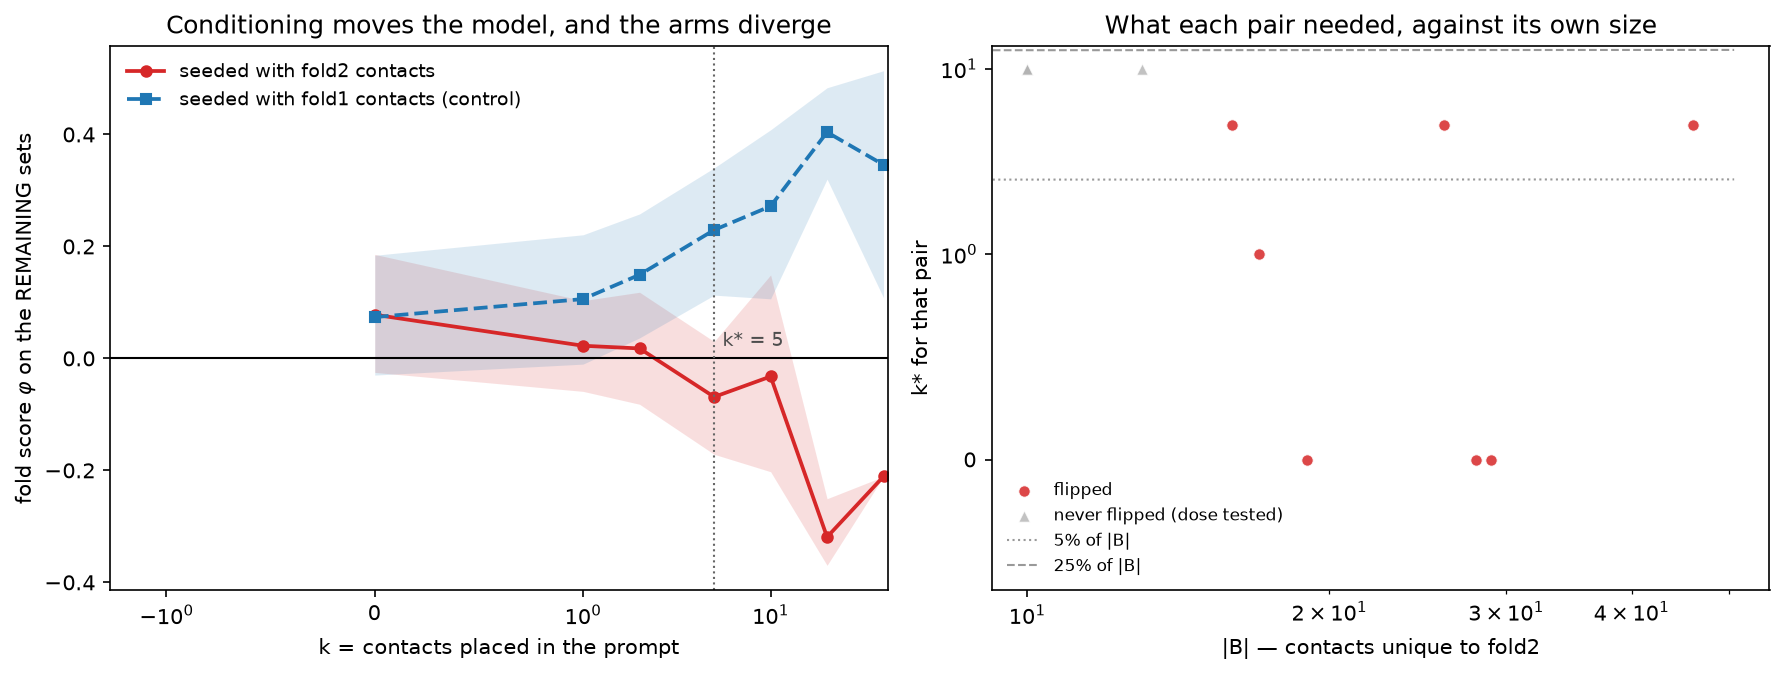
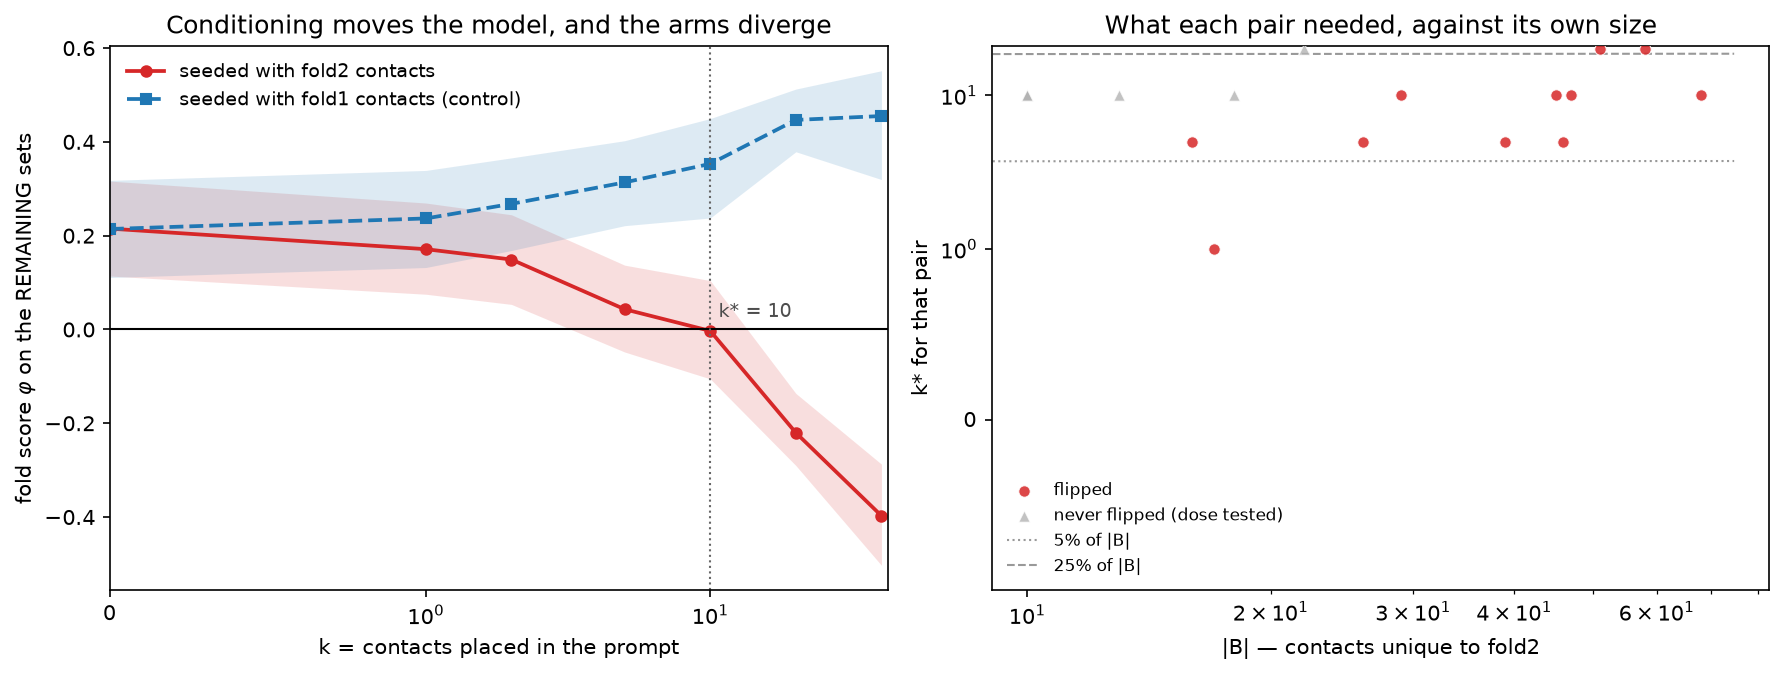
exp301: summary narrative + plot caption sidecars
11 narrative slides tracking the experiment, and plot.py now goes
through build_summary.save_plot_with_meta so each plot slide prints its
caption and how to regenerate it instead of "metadata missing".

Captions are one line each on purpose: #224 found that a caption past
two lines silently overlaps the plot. Rendered and checked at page
level before committing.

summary.pdf itself is gitignored -- it is a build artifact of the
narrative plus the committed PNGs.

diff --git a/experiments/exp301_evals_fold_switching_proteins/plot.py b/experiments/exp301_evals_fold_switching_proteins/plot.py
@@ -19,6 +19,8 @@ import pandas as pd
 matplotlib.use("Agg")
 import matplotlib.pyplot as plt  # noqa: E402
 
+from build_summary import save_plot_with_meta  # noqa: E402
+
 HERE = Path(__file__).resolve().parent
 DATA = HERE / "data"
 PLOTS = HERE / "plots"
@@ -30,11 +32,33 @@ LABEL_COLOR = {"fold1": FOLD1, "fold2": FOLD2, "neither": NEUTRAL,
                "ambiguous": "#bcbd22", "none": "#cccccc"}
 
 
+#: One-line caption per figure, carried into plots/summary.pdf by
+#: build_summary.py's sidecar convention so a slide says what it shows.
+#: Kept to a single line each — #224's summary.pdf overlaps the plot when a
+#: caption runs past two.
+CAPTIONS = {
+    "fold_preference.png":
+        "Per-pair fold score and per-fold R-precision: MarinFold prefers Fold1 in 52/68 pairs.",
+    "bimodality.png":
+        "Per-rollout phi spread against a binomial null: the ensemble is one mode, not two.",
+    "calibration.png":
+        "The gate: this worker against exp277's published per-protein R-precision on eval-val.",
+    "memorization.png":
+        "Model preference against the fold its own training document encoded, and against exposure.",
+    "nll_vs_phi.png":
+        "Teacher-forced likelihood against sampled preference: the two readouts agree per protein.",
+    "conditioning.png":
+        "Dose-response of prompting with fold2 contacts, against the symmetric fold1 control.",
+}
+
+
 def _finish(fig, name: str) -> None:
     PLOTS.mkdir(exist_ok=True)
     fig.tight_layout()
-    out = PLOTS / name
-    fig.savefig(out, dpi=150, bbox_inches="tight")
+    out = save_plot_with_meta(
+        fig, PLOTS / name,
+        caption=CAPTIONS.get(name, name),
+        script="plot.py", args=[], dpi=150)
     plt.close(fig)
     print(f"wrote {out.relative_to(HERE)}")
 

diff --git a/experiments/exp301_evals_fold_switching_proteins/summary_narrative.md b/experiments/exp301_evals_fold_switching_proteins/summary_narrative.md
@@ -10,10 +10,101 @@ Does MarinFold's distribution contain **both** conformations of fold-switching
 proteins — and if it does not sample them spontaneously, how much explicit
 contact evidence does it take to force the alternative fold?
 
-## Why
+## Why fold switchers, and why MarinFold
 
-_(Copy from the issue.)_
+Fold switchers adopt two stable folds from one sequence, which makes them the
+field's sharpest generalisation probe. AlphaFold2 predicts only one conformation
+for 94% of them, and its successes are driven by training-set memorization.
 
-## Results so far
+MarinFold is a different instrument in three ways that matter. `contacts-v1` is
+generative over contact sets, so "is the other fold in the distribution?" is
+answered by sampling rather than by MSA tricks. It is promptable, so "how much
+evidence moves the model" is a number. And we can read our own training data, so
+the memorization test Porter's group had to infer can be run directly.
 
-_(Fill in as results come in.)_
+## The eval set, and its premise
+
+93 fold-switching pairs from `ncbi/AF2_benchmark` TableS1; 68 pass a three-part
+gate (≥10 contacts unique to each fold, ≥50% chain overlap, switching region
+located). 177 of 178 PDB entries were already in the local mirror.
+
+The two folds share a median Jaccard of 0.515. The floor — two chains of the same
+sequence in the same fold inside one crystal — is 0.873. All 68 sit below the
+replicate median. That floor independently reproduces #224's DsbA figure of
+0.85–0.88 on different proteins.
+
+## Result 1 — the model reaches one fold, and it is Fold1
+
+52 of 68 pairs, mean φ = +0.112 [+0.071, +0.155], p = 3.9e-6; paired R-precision
+margin +0.078. Strongly asymmetric: Fold1 preferences reach +0.6, Fold2 stops at
+−0.2. KaiB — the protein AF-Cluster was built for — sits at +0.47.
+
+The preference is *larger* on tier A (both folds from one crystal, +0.176) and
+*larger* again restricted to the switching region (+0.153), so it is the fold
+switch being measured, not crystallisation or domain motion.
+
+## The three ways it could have been an artifact
+
+Resolution: Fold1 structures really are sharper (2.52 Å vs 2.80 Å, p = 0.031),
+but φ is uncorrelated with that advantage (ρ = +0.011) and is the same size when
+Fold1 is the blunter structure (+0.103) as when it is sharper (+0.091).
+
+Set size: |A| exceeds |B| (92.7 vs 78.2), but φ normalises by each and
+size-balanced pairs give +0.105.
+
+Method: X-ray/X-ray only gives +0.102 (38/51, p = 1.1e-4).
+
+## Result 2 — sampling does not find the other fold
+
+Per-rollout φ spread against a binomial null built from each pair's own recalls:
+median dispersion 1.067. The rollout ensemble is one mode.
+
+That is the finding that distinguishes this from AlphaFold's failure. AF2 needs
+MSA tricks to manufacture a second conformation. MarinFold has a native sampling
+mechanism and still does not find one.
+
+## Result 3 — but the other fold is improbable, not impossible
+
+Teacher-forced NLL of both folds under identical realizations and matched
+contact counts: mean ΔNLL/token −0.019 (p = 0.27), Fold1 favoured in 37 of 68.
+A coin flip.
+
+The two readouts agree per protein (ρ = −0.54), so they measure the same thing.
+The gap is between scoring and reaching: Fold2 is inside the distribution and
+sampling never goes there. That is a steering problem, not a representation one.
+
+## Result 4 — what the training data encoded
+
+The corpora are AFDB and ESM-Atlas, i.e. AF2 and ESMFold predictions, so
+whatever conformer those chose is the only one MarinFold ever saw. Recovering the
+actual training document for each pair: Fold1 30, Fold2 4, neither 26.
+
+88% Fold1 among decided pairs — an independent reproduction of Porter's ~81%
+AF2 Fold1 rate, from a different direction.
+
+## Result 5 — the memorization test is null, and why
+
+The model agrees with the training fold 76% of the time. The two marginals alone
+predict 75% (Fisher p = 0.56), and Spearman(φ, training identity) is −0.001.
+
+We cannot tell whether the model follows its training data or independently
+shares its bias, because only 4 pairs have a training document encoding Fold2 —
+the predictors that generated the corpus almost never produce the alternative
+fold. Powering the test needs a PDB-trained model, where both folds exist.
+
+## Result 6 — forcing the fold
+
+Putting k of Fold2's contacts in the prompt moves the model, monotonically, with
+the symmetric Fold1 control moving the other way from an identical baseline.
+Recovery is scored on the remaining sets, so the prompt cannot inflate it, and
+the echo rate is zero — the model never repeats what it was handed.
+
+_(k\* and the final curve land when the full grid finishes.)_
+
+## Caveats
+
+n = 68, of which 6 are tier A. The calibration gate lands at +0.0056 ± 0.0029
+rather than a clean zero — inside one seed's own spread, but not nothing. Several
+pairs switch by domain swap or subunit exchange, where the monomer map moves
+least. And this scores contact maps, not structures: #174 showed the contact set
+is necessary but not sufficient for the fold.
